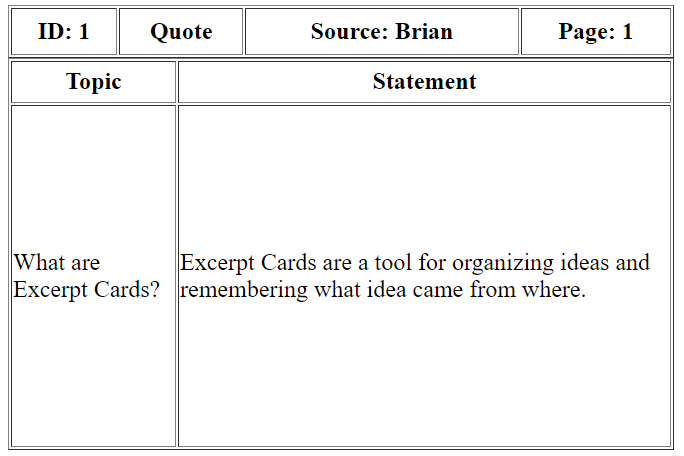
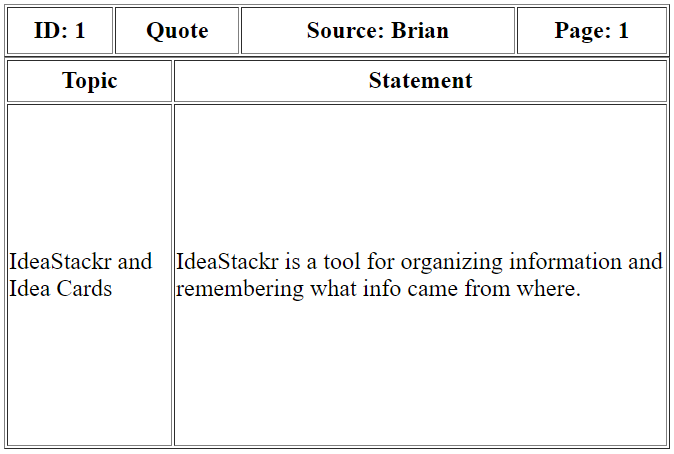
changed name to IdeaStackr

Changed region(s): [[0.0, 0.0, 0.997, 1.0]]

diff --git a/cardExample.html b/cardExample.html
@@ -20,8 +20,8 @@
         </tr>
         <tr>
             
-        <td height="338"><font size="5">What are Excerpt Cards?</font></td>
-        <td height="338"><font size="5">Excerpt Cards are a tool for organizing ideas and remembering what idea came from where.</font></td>
+        <td height="338"><font size="5">IdeaStackr and Idea Cards</font></td>
+        <td height="338"><font size="5">IdeaStackr is a tool for organizing information and remembering what info came from where.</font></td>
     </tr>
         
     </table>

diff --git a/README.md b/README.md
@@ -1,8 +1,6 @@
-# Excerpt Cards: A framework for organizing and keeping track of ideas!
+# IdeaStackr: A framework for organizing and keeping track of information
 
-<img src="cardExample.png" alt="sampleCard" width="500"/>
-
-## Steps of the Excerpt Cards framework
+## Steps of the IdeaStackr framework
 
 ### 1. Data collection
 
@@ -17,8 +15,8 @@ idNum;infoType;source;page;topic;statement
 
 ### 2. Card generation
 
-- Create card jpegs with [card generation script](csv2card.py)
-- Use your printer to generate note cards from the images (A6 format works best).
+- Create idea card jpegs with [card generation script](csv2card.py)
+- Use your printer to generate paper cards from the images (A6 format works best).
 
 ### 3. Card clustering
 
@@ -57,7 +55,7 @@ idNum;infoType;source;page;topic;statement
 
 ## Background: Excerpting
 
-The system behind Excerpt Cards is called excerpting (German: *Exzerpieren*)
+The system behind IdeaStackr is called excerpting (German: *Exzerpieren*)
 
 [![](exzerpiren.jpg)][1]
 
